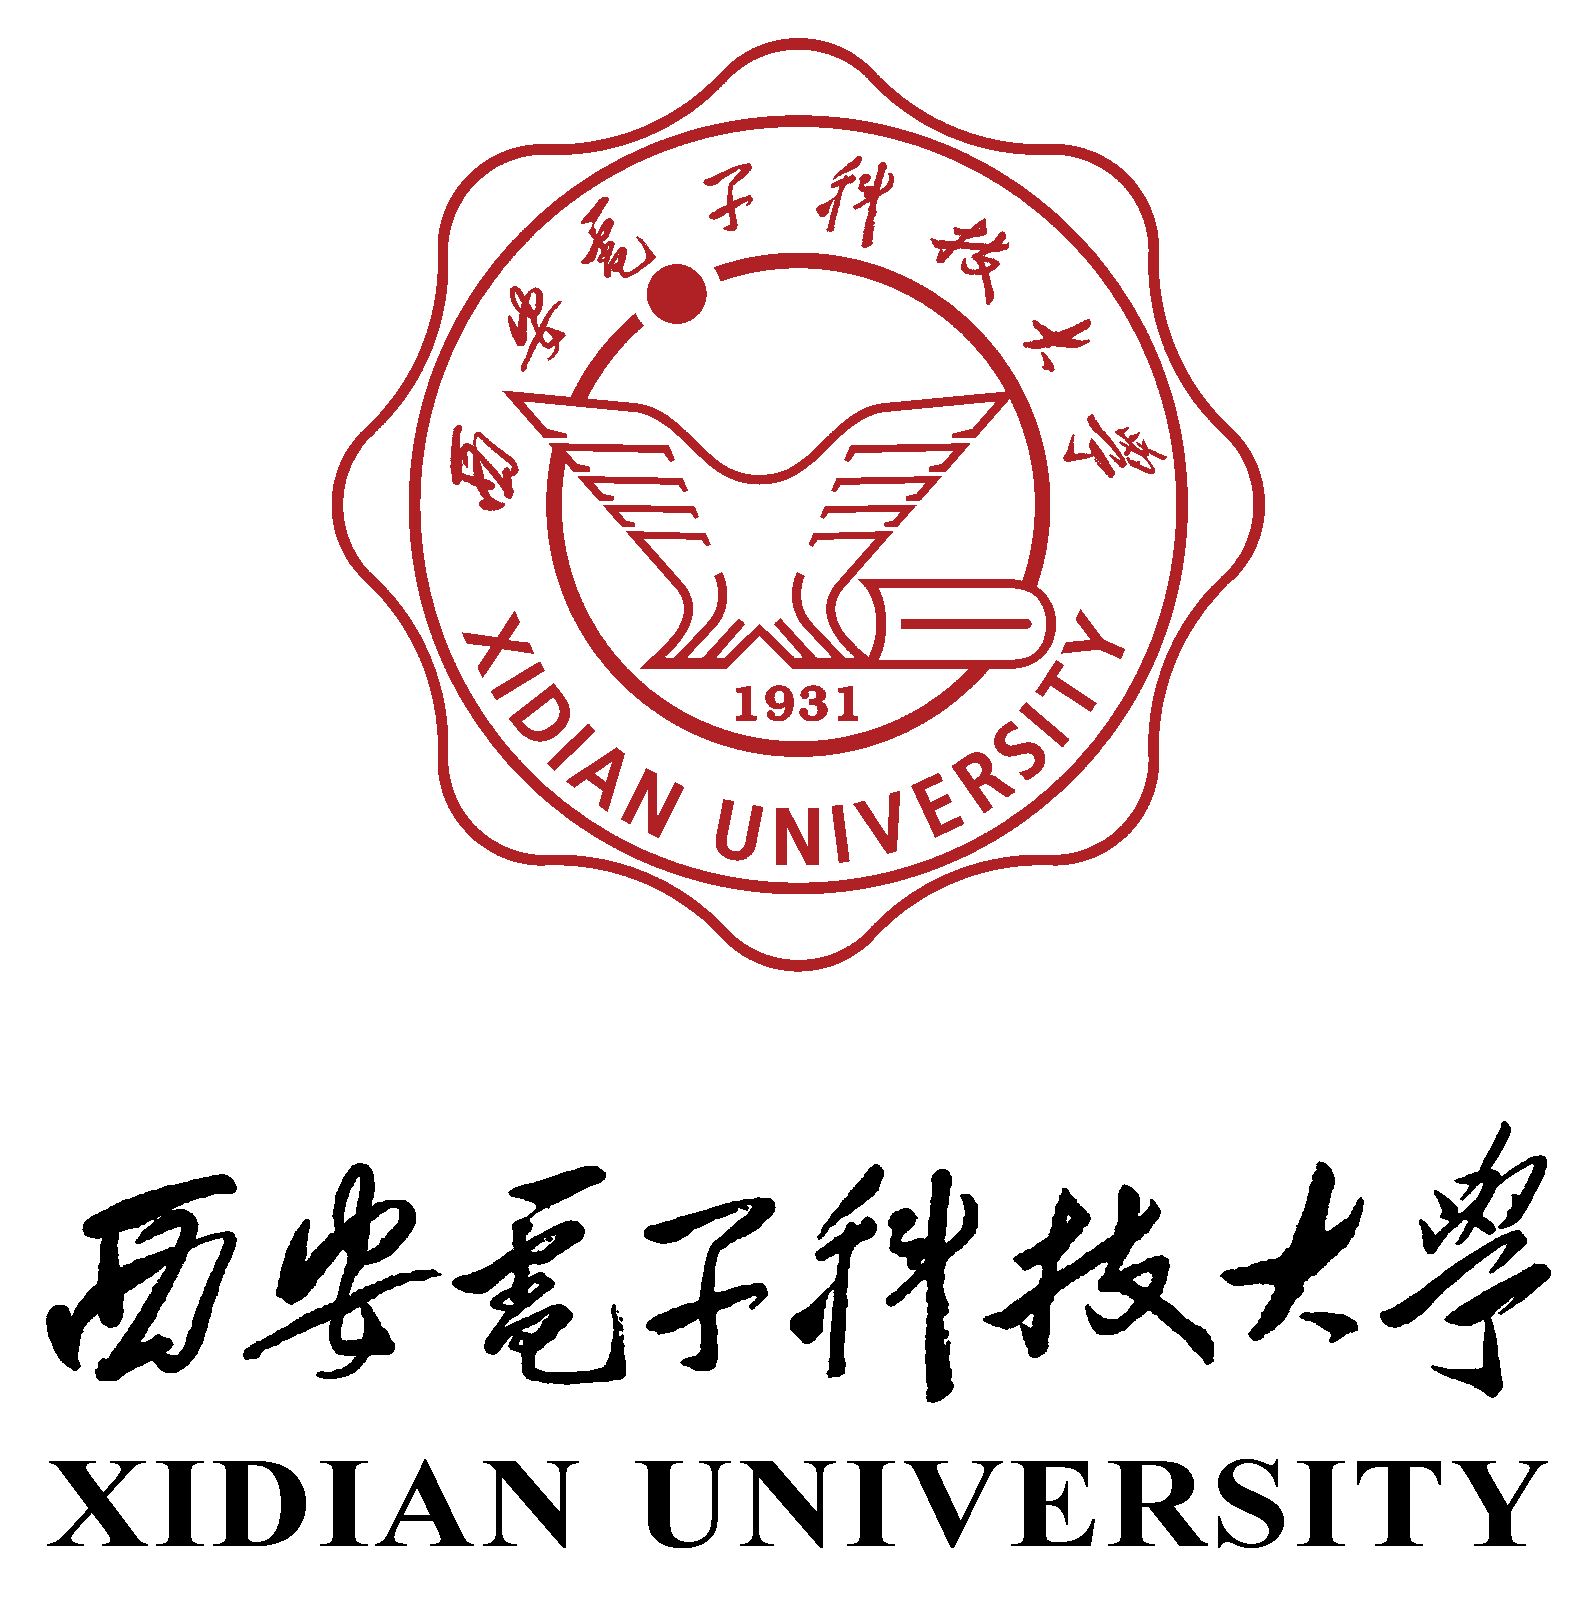
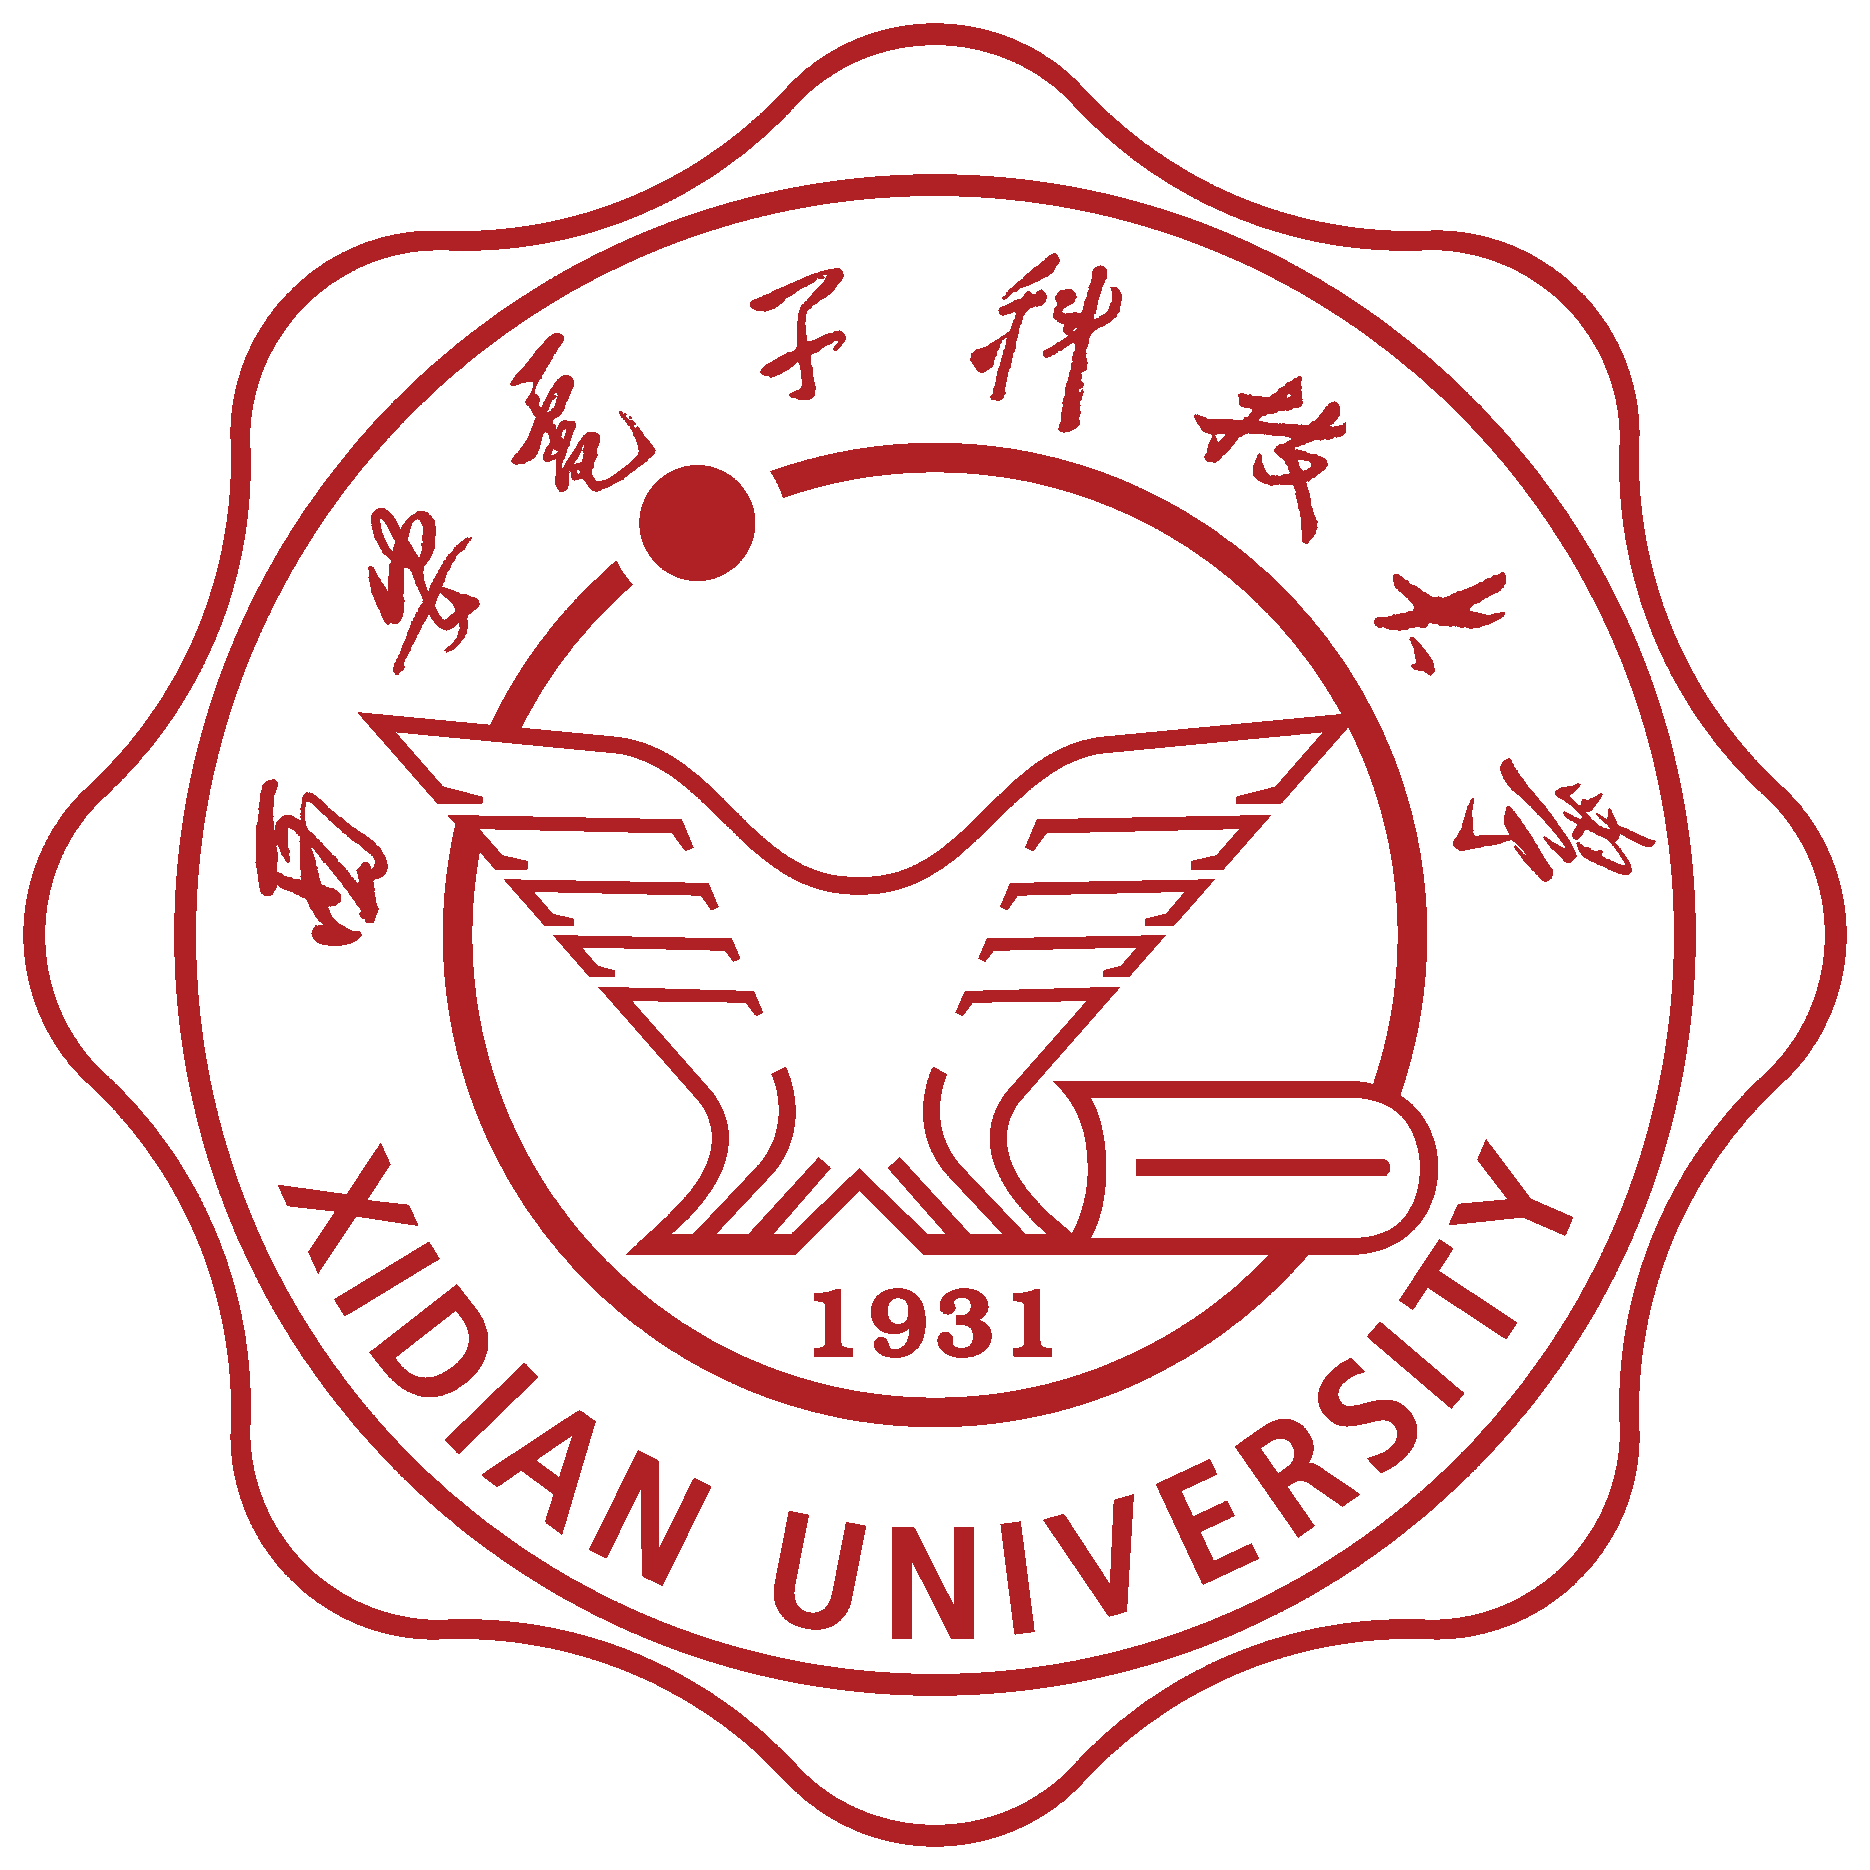
Further reduce spacing for more compact layout
- Reduce item padding from 8px to 6px
- Reduce item margin from 8px to 6px
- Reduce table cell padding from 2px to 1px
- Reduce achievements/thesis margin from 4px to 3px
- Reduce h3 margin from 12px to 8px
- Reduce hr margin from 10px to 8px
- Update xidian logo

Changed region(s): [[0.0, 0.0, 1.0, 0.987], [0.0308, 0.5552, 0.0616, 0.5861]]

diff --git a/assets/css/custom.css b/assets/css/custom.css
@@ -15,7 +15,7 @@ p, ul, ol {
 }
 
 hr {
-  margin: 0 0 10px;
+  margin: 0 0 8px;
 }
 
 /* Prevent text selection for better swipe experience */
@@ -187,7 +187,7 @@ section * {
 
 /* Timeline Styles */
 h3 {
-  margin-top: 12px;
+  margin-top: 8px;
   border-left: 3px solid #267CB9;
   padding-left: 10px;
 }
@@ -199,11 +199,11 @@ h4 {
 
 /* Job and Degree Items */
 .job-item, .degree-item {
-  padding: 8px;
+  padding: 6px;
   background: #fafafa;
   border-left: 3px solid #267CB9;
   border-radius: 4px;
-  margin-bottom: 8px;
+  margin-bottom: 6px;
 }
 
 .job-table, .degree-table {
@@ -212,7 +212,7 @@ h4 {
 }
 
 .job-table td, .degree-table td {
-  padding: 2px 0;
+  padding: 1px 0;
   vertical-align: middle;
   text-align: left;
 }
@@ -236,16 +236,16 @@ h4 {
 }
 
 .achievements-list {
-  margin: 4px 0 0 0;
+  margin: 3px 0 0 0;
   padding-left: 20px;
 }
 
 .achievements-list li {
-  margin-bottom: 3px;
+  margin-bottom: 2px;
 }
 
 .thesis-text {
-  margin: 4px 0 0 0;
+  margin: 3px 0 0 0;
   font-style: italic;
   color: #666;
 }
